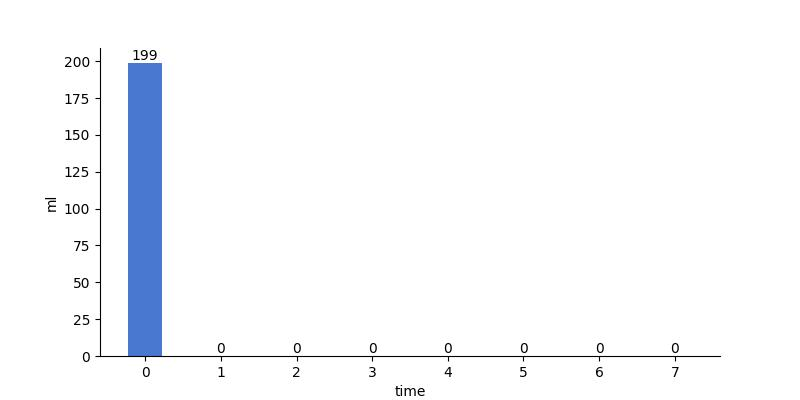
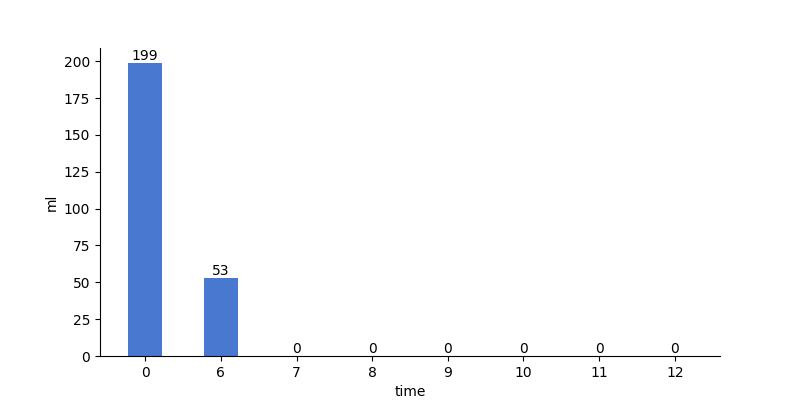
update

Changed region(s): [[0.25, 0.66, 0.3125, 0.9], [0.625, 0.9, 0.6562, 0.93]]

diff --git a/README.md b/README.md
@@ -5,12 +5,12 @@
 
 | 今日总饮水量 | 每小时平均饮水量 |
 | :----: | :----: |
-| 199 | 199 |
+| 252 | 126 |
 </div>
 
-| 日期 | 00:21:43 | 00:40:44 |
-| :----: | :----: | :----: |
-| 2022-03-01 | 91 | 108 |
+| 日期 | 00:21:43 | 00:40:44 | 06:52:38 |
+| :----: | :----: | :----: | :----: |
+| 2022-03-01 | 91 | 108 | 53 |
 
 # 近30日饮水数据
 
